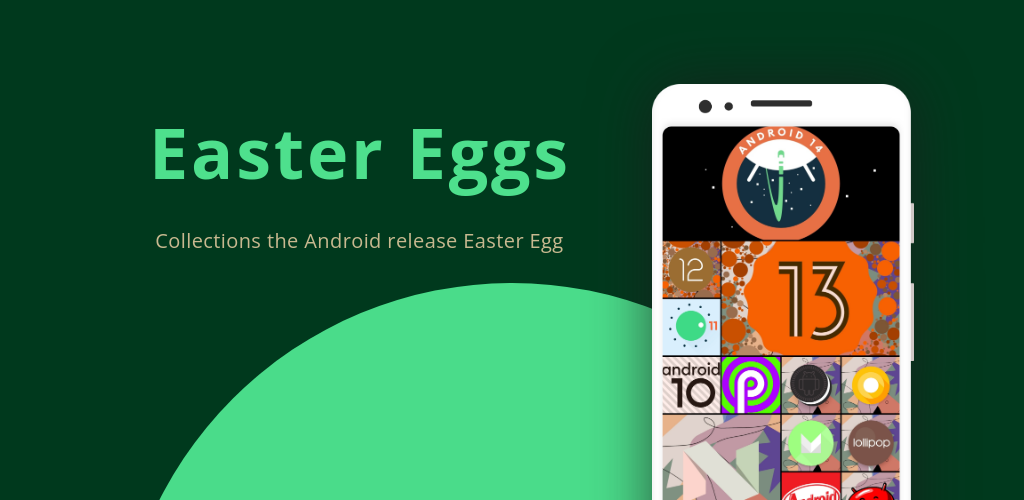
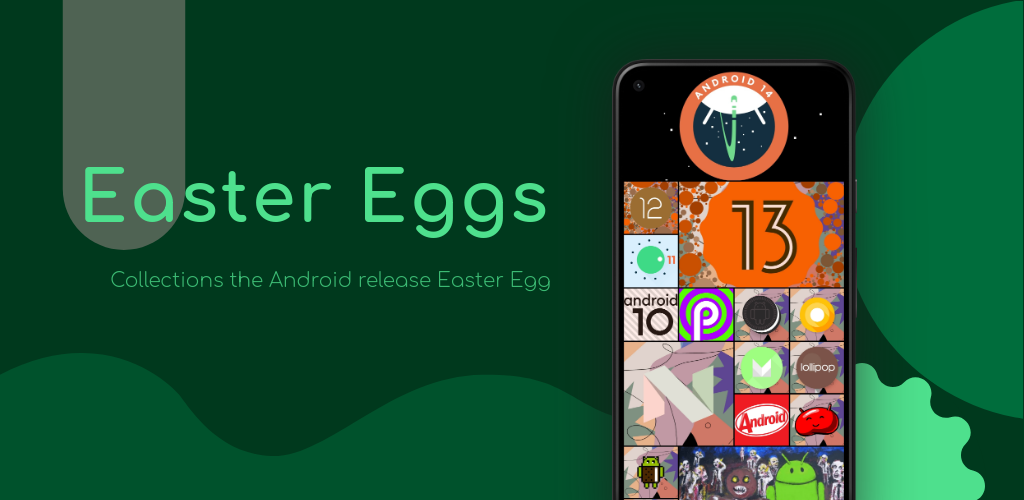
doc: Update README

diff --git a/app/src/androidTest/java/com/dede/android_eggs/fake_test/GridScreenshotUtil.kt b/app/src/androidTest/java/com/dede/android_eggs/fake_test/GridScreenshotUtil.kt
@@ -36,11 +36,11 @@ class GridScreenshotUtil {
         private val TARGET_SIZE = Size(1080, 2340)
 
         private val GROUPS = listOf<Group>(
-            Split(520, 1),                // 1
+            Split(540, 1),                // 1
             Triple(520, true, 4),  // 3
             Split(260, 4),                // 4
-            Pentad(520, false),            // 5
-            Triple(520, true, 4),   // 3
+            Pentad(510, false),            // 5
+            Triple(510, true, 4),   // 3
         )
 
         private const val ASSET_DIR = "screenshots"

diff --git a/README.md b/README.md
@@ -49,6 +49,7 @@ development.
 
 * [AOSP](https://cs.android.com/android/platform/superproject/main)
 * [All translation contributors](https://crowdin.com/project/easter-eggs/members)
+* [Hotpot, Google Play Feature Graphics](https://hotpot.ai/templates/google-play-feature-graphic)
 
 ## Star History
 

diff --git a/README_zh.md b/README_zh.md
@@ -45,6 +45,7 @@
 
 * [AOSP](https://cs.android.com/android/platform/superproject/main)
 * [所有翻译贡献者](https://zh.crowdin.com/project/easter-eggs/members)
+* [Hotpot, Google Play Feature Graphics](https://hotpot.ai/templates/google-play-feature-graphic)
 
 ## Star 历史
 
